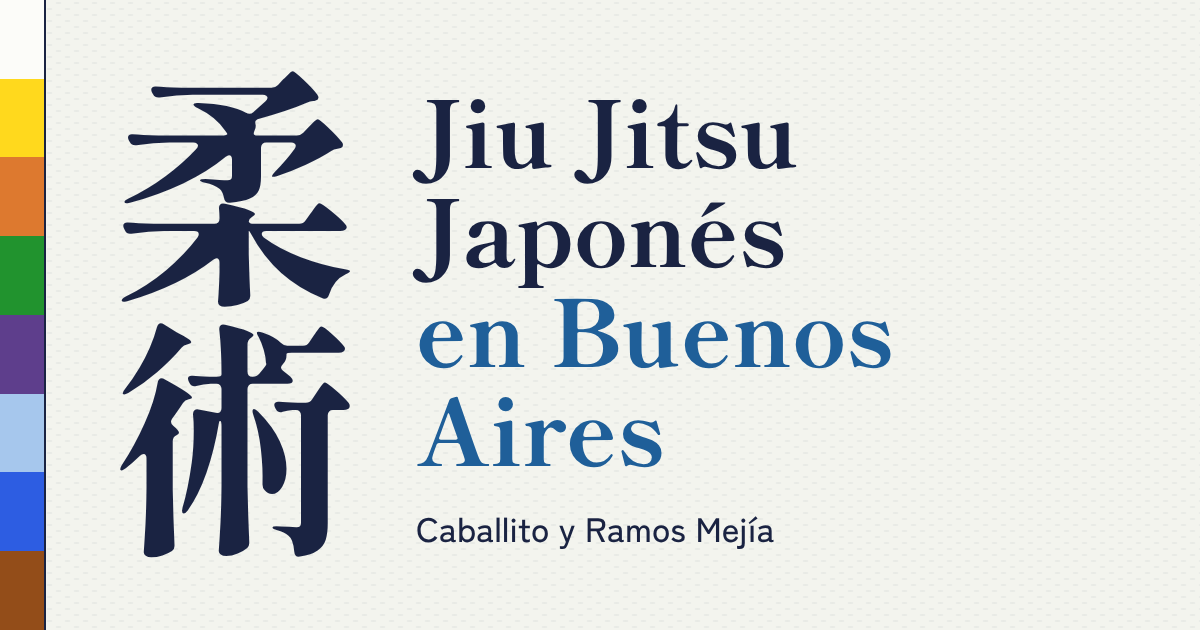
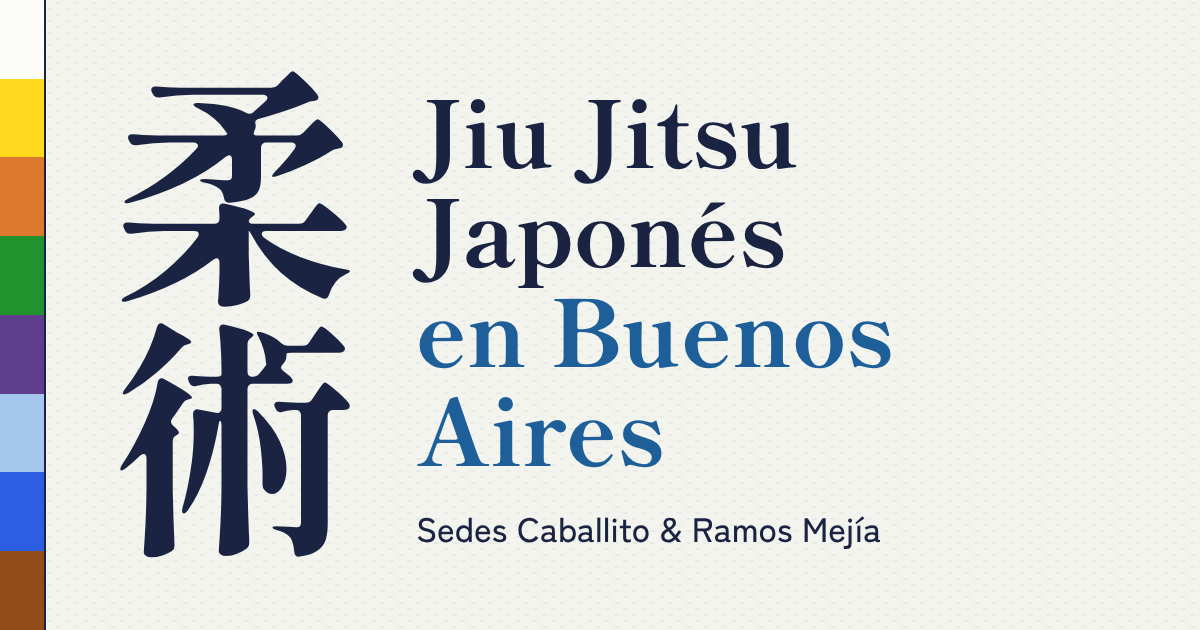
Simplifica la sección de grados y ajusta horarios y miniatura
- Se quita el cinturón lateral en todo el sitio.
- Anudado más natural con el mismo timing: la banda se tensa, las puntas caen por su peso y el nudo se ajusta.
- Los horarios pierden el brillo; solo el próximo día de clase respira.
- Nuevo título de la sección de cinturones: el camino lleva años de práctica.
- 2° kyu destaca primeros auxilios y 3° kyu la defensa contra atacantes múltiples.
- Botón de mon más corto y sin aviso de verificación.
- La miniatura para compartir incluye las sedes.

Changed region(s): [[0.3392, 0.8143, 0.74, 0.8746]]

diff --git a/src/css/site.css b/src/css/site.css
@@ -1,5 +1,4 @@
-/* Layout: contenido alineado a la izquierda sobre una grilla de 12 columnas; en la sección de grados, un cinturón (obi)
-   segmentado del blanco al marrón aparece en el borde izquierdo y marca el kyu que se está viendo;
+/* Layout: contenido alineado a la izquierda sobre una grilla de 12 columnas;
    el contenido se alinea a la izquierda sobre una grilla de 12 columnas, con el índigo como tinta y el celeste y el sol como acentos. */
 :root {
   color-scheme: light;
@@ -12,8 +11,7 @@
   --sol: #F6B40E;         /* Sol de Mayo */
   --tatami: #B7BB86;      /* paja igusa */
   --blanco: #FCFCF9;
-  --brillo: rgba(246, 180, 14, .42);  /* halo del Sol de Mayo para los horarios */
-  --brillo-0: rgba(246, 180, 14, .08);
+  --indigo-claro: #2C3866;  /* respiración del próximo día de clase */
 
   --c-blanco: #FCFCF9; --c-amarillo: #FFD91D; --c-naranja: #DD792F; --c-verde: #21932E;
   --c-violeta: #5E3E8C; --c-celeste: #A6C7ED; --c-azul: #2D5DE2; --c-marron: #934D19;
@@ -27,10 +25,8 @@
   --t-4: 1.125rem;
   --t-chico: .9rem;
 
-  --obi: 10px;
   --ancho: 1180px;
 }
-@media (min-width: 900px) { :root { --obi: 22px; } }
 
 *, *::before, *::after { box-sizing: border-box; }
 html { scroll-behavior: smooth; scroll-padding-top: 5rem; }
@@ -63,39 +59,6 @@ p { margin: 0; }
   padding-right: max(16px, env(safe-area-inset-right, 0px));
 }
 @media (min-width: 700px) { .caja { padding-left: max(40px, env(safe-area-inset-left, 0px)); padding-right: max(40px, env(safe-area-inset-right, 0px)); } }
-
-/* ---------- El obi: solo en la sección de grados ---------- */
-.obi {
-  position: fixed; left: 0; top: 0; bottom: 0; width: var(--obi); z-index: 30;
-  display: flex; flex-direction: column;
-  border-right: 1px solid var(--indigo);
-  transition: transform .35s ease, visibility .35s;
-}
-.js .obi:not(.visible) { transform: translateX(-110%); visibility: hidden; }
-.obi a {
-  flex: 1; display: block; position: relative;
-  background-color: var(--seg);
-  background-image: repeating-linear-gradient(90deg, transparent 0 3px, rgba(26,35,66,.22) 3px 4px);
-  border-bottom: 1px solid rgba(26,35,66,.35);
-  transition: width .25s ease, box-shadow .25s ease;
-  width: 100%;
-}
-.obi a:last-child { border-bottom: 0; }
-.obi a:hover { width: calc(100% + 3px); }
-.obi a.activa { width: calc(100% + 5px); box-shadow: inset 0 0 0 2px var(--indigo), 3px 0 0 var(--indigo); z-index: 1; }
-.obi a:focus-visible { outline-offset: -3px; }
-.obi-grado { display: none; }
-@media (min-width: 900px) {
-  .obi a:hover { width: calc(100% + 6px); }
-  .obi a.activa { width: calc(100% + 12px); }
-  .obi-grado {
-    display: block; position: fixed; left: calc(var(--obi) + 20px); bottom: 14px; z-index: 30;
-    writing-mode: vertical-rl; transform: rotate(180deg);
-    font-size: .78rem; font-weight: 700; color: var(--indigo-medio); letter-spacing: .04em;
-    font-variant-numeric: tabular-nums; transition: opacity .35s;
-  }
-  .js .obi:not(.visible) + .obi-grado { opacity: 0; }
-}
 
 /* ---------- Cabecera ---------- */
 .cabecera {
@@ -154,19 +117,7 @@ p { margin: 0; }
 }
 
 /* Semana de clases */
-.semana {
-  background: var(--blanco); border: 1px solid var(--indigo); min-width: 0;
-  box-shadow: 10px 10px 0 var(--tatami), 0 0 22px 4px var(--brillo);
-}
-@media (prefers-reduced-motion: no-preference) {
-  .semana { animation: respirar 3.6s ease-in-out infinite; }
-  .semana li.proxima::before { animation: respirar-marca 3.6s ease-in-out infinite; }
-  @keyframes respirar {
-    0%, 100% { box-shadow: 10px 10px 0 var(--tatami), 0 0 6px 0 var(--brillo-0); }
-    50% { box-shadow: 10px 10px 0 var(--tatami), 0 0 30px 7px var(--brillo); }
-  }
-  @keyframes respirar-marca { 0%, 100% { opacity: .55; } 50% { opacity: 1; } }
-}
+.semana { background: var(--blanco); border: 1px solid var(--indigo); box-shadow: 10px 10px 0 var(--tatami); min-width: 0; }
 .semana-cabeza { display: flex; justify-content: space-between; align-items: baseline; gap: 1rem; padding: 1rem 1.2rem; border-bottom: 1px solid var(--indigo); flex-wrap: wrap; }
 .semana-cabeza h2 { font-size: 1.25rem; }
 .semana-cabeza p { font-size: var(--t-chico); color: var(--indigo-medio); }
@@ -182,6 +133,12 @@ p { margin: 0; }
 .semana li.proxima { background: var(--indigo); color: var(--gi); }
 .semana li.proxima .sede { color: var(--celeste); }
 .semana li.proxima::before { content: ""; position: absolute; left: 0; top: 0; bottom: 0; width: 6px; background: var(--sol); }
+@media (prefers-reduced-motion: no-preference) {
+  .semana li.proxima { animation: respirar 3.6s ease-in-out infinite; }
+  .semana li.proxima::before { animation: respirar-marca 3.6s ease-in-out infinite; }
+  @keyframes respirar { 0%, 100% { background-color: var(--indigo); } 50% { background-color: var(--indigo-claro); } }
+  @keyframes respirar-marca { 0%, 100% { opacity: .55; } 50% { opacity: 1; } }
+}
 .semana .aviso { grid-column: 1 / -1; font-size: var(--t-chico); font-weight: 700; color: var(--sol); margin-bottom: .15rem; }
 
 /* ---------- Secciones ---------- */
@@ -422,15 +379,38 @@ picture { display: block; }
 /* ---------- Cinturón anudado ---------- */
 .nudo { width: 100%; height: auto; overflow: visible; }
 .nudo path { fill: var(--cinta, var(--c-blanco)); stroke: var(--indigo); stroke-width: 4; stroke-linejoin: round; transform-box: fill-box; transform-origin: center; }
+/* Anudado, con el timing original (banda 0-0,7 s; caídas 0,55 y 0,7 s; ajuste 1,05-1,45 s):
+   la banda se tensa desde el nudo hacia los extremos, las puntas caen por su peso desde el punto
+   donde salen del nudo y se asientan con un vaivén corto, y el nudo se ajusta apretando la tela. */
+.nudo { filter: drop-shadow(0 2px 0 rgba(26, 35, 66, .16)); }
 @media (prefers-reduced-motion: no-preference) {
-  .anudar .nudo path:nth-child(2) { animation: cenir .7s cubic-bezier(.6, 0, .2, 1) both; }
-  .anudar .nudo path:nth-child(5) { animation: caer .45s ease-out .55s both; transform-origin: 100% 0; }
-  .anudar .nudo path:nth-child(7) { animation: caer .45s ease-out .7s both; transform-origin: 0 0; }
+  .anudar .nudo path:nth-child(2) { animation: tensar .7s cubic-bezier(.6, 0, .2, 1) both; transform-origin: 50% 50%; }
+  .anudar .nudo path:nth-child(5) { animation: caer-izq .45s .55s both; transform-origin: 100% 0; }
+  .anudar .nudo path:nth-child(7) { animation: caer-der .45s .7s both; transform-origin: 0 0; }
   .anudar .nudo path:nth-child(1), .anudar .nudo path:nth-child(3), .anudar .nudo path:nth-child(4),
-  .anudar .nudo path:nth-child(6), .anudar .nudo path:nth-child(8) { animation: apretar .4s cubic-bezier(.3, 1.6, .5, 1) 1.05s both; }
-  @keyframes cenir { from { clip-path: inset(0 100% 0 0); } to { clip-path: inset(-10px); } }
-  @keyframes caer { from { opacity: 0; transform: scale(.2); } to { opacity: 1; transform: scale(1); } }
-  @keyframes apretar { from { opacity: 0; transform: scale(1.5); } to { opacity: 1; transform: scale(1); } }
+  .anudar .nudo path:nth-child(6), .anudar .nudo path:nth-child(8) { animation: ajustar .4s cubic-bezier(.25, .7, .3, 1) 1.05s both; }
+  @keyframes tensar {
+    from { clip-path: inset(0 48% 0 48%); transform: scaleY(1.08); }
+    to { clip-path: inset(-10px); transform: scaleY(1); }
+  }
+  @keyframes caer-izq {
+    0% { clip-path: inset(0 0 0 100%); transform: rotate(22deg); animation-timing-function: cubic-bezier(.5, 0, .9, .5); }
+    55% { clip-path: inset(-10px); transform: rotate(-4deg); animation-timing-function: cubic-bezier(.2, .5, .4, 1); }
+    80% { transform: rotate(1.5deg); }
+    100% { clip-path: inset(-10px); transform: rotate(0); }
+  }
+  @keyframes caer-der {
+    0% { clip-path: inset(0 100% 0 0); transform: rotate(-22deg); animation-timing-function: cubic-bezier(.5, 0, .9, .5); }
+    55% { clip-path: inset(-10px); transform: rotate(4deg); animation-timing-function: cubic-bezier(.2, .5, .4, 1); }
+    80% { transform: rotate(-1.5deg); }
+    100% { clip-path: inset(-10px); transform: rotate(0); }
+  }
+  @keyframes ajustar {
+    0% { opacity: 0; transform: scale(1.1, .9); }
+    35% { opacity: 1; }
+    70% { transform: scale(.97, 1.03); }
+    100% { opacity: 1; transform: scale(1); }
+  }
 }
 
 /* ---------- Carrusel de cinturones (portada) ---------- */
@@ -507,9 +487,6 @@ picture { display: block; }
 .tiras i { display: block; width: 9px; background: var(--mon); border: 1px solid var(--indigo); }
 
 .color-mon { display: inline-block; width: .9em; height: .9em; vertical-align: -.1em; border: 1px solid var(--indigo); background: var(--mon); margin-right: .2em; }
-.pendiente { margin-top: 1rem; border: 1px dashed var(--indigo-medio); padding: .7rem .8rem; color: var(--indigo-medio); }
-.pendiente strong { display: block; color: var(--indigo); margin-bottom: .25rem; }
-.pendiente ul { margin: 0; padding-left: 1.1rem; }
 @media (min-width: 1000px) {
   .articulo.grados-pagina .caja { grid-template-columns: 11rem minmax(0, 1fr); }
 }

diff --git a/src/js/site.js b/src/js/site.js
@@ -70,38 +70,12 @@
 
   var sinMovimiento = window.matchMedia && window.matchMedia('(prefers-reduced-motion: reduce)').matches;
 
-  /* ---------- Obi: aparece solo en la sección de grados y marca el kyu activo ---------- */
-  var obi = document.querySelector('.obi');
-  var obiRotulo = document.querySelector('.obi-grado');
-  var obiEnlaces = obi ? Array.prototype.slice.call(obi.querySelectorAll('a[data-kyu]')) : [];
-  function marcarObi(kyu) {
-    obiEnlaces.forEach(function (a) {
-      var activo = a.dataset.kyu === String(kyu);
-      a.classList.toggle('activa', activo);
-      if (activo) {
-        a.setAttribute('aria-current', 'true');
-        if (obiRotulo) obiRotulo.textContent = a.getAttribute('aria-label');
-      } else {
-        a.removeAttribute('aria-current');
-      }
-    });
-  }
-  function vigilarZona(zona) {
-    if (!obi || !zona) return;
-    if (!('IntersectionObserver' in window)) { obi.classList.add('visible'); return; }
-    new IntersectionObserver(function (e) {
-      obi.classList.toggle('visible', e[0].isIntersecting);
-    }, { rootMargin: '-15% 0px -15% 0px' }).observe(zona);
-  }
-
-  /* ---------- Página de grados: obi e índice sincronizados con el kyu en pantalla ---------- */
+  /* ---------- Página de grados: el índice marca el kyu en pantalla ---------- */
   var listaKyus = document.querySelector('[data-kyus]');
   if (listaKyus) {
-    vigilarZona(listaKyus);
     var kyus = Array.prototype.slice.call(listaKyus.querySelectorAll('.grado[data-kyu]'));
     var indiceKyu = Array.prototype.slice.call(document.querySelectorAll('.indice a[href^="#kyu-"]'));
     var marcarKyu = function (kyu) {
-      marcarObi(kyu);
       indiceKyu.forEach(function (a) { a.classList.toggle('activa', a.getAttribute('href') === '#kyu-' + kyu); });
     };
     marcarKyu(kyus[0].dataset.kyu);
@@ -115,8 +89,8 @@
       }, { rootMargin: '-35% 0px -60% 0px' });
       kyus.forEach(function (k) { vigia.observe(k); });
     }
-    // Al tocar un tramo del obi o del índice, marcarlo enseguida (el scroll lo confirma)
-    obiEnlaces.concat(indiceKyu).forEach(function (a) {
+    // Al tocar un kyu del índice, marcarlo enseguida (el scroll lo confirma)
+    indiceKyu.forEach(function (a) {
       a.addEventListener('click', function () { marcarKyu(a.getAttribute('href').replace(/.*#kyu-/, '')); });
     });
   }
@@ -153,7 +127,6 @@
       siguiente.disabled = i === diapos.length - 1;
       var d = diapos[i];
       d.classList.remove('anudar'); void d.offsetWidth; d.classList.add('anudar');
-      marcarObi(d.dataset.kyu);
     };
     var ir = function (i) {
       i = Math.max(0, Math.min(diapos.length - 1, i));
@@ -178,17 +151,7 @@
       else if (e.key === 'Home') { e.preventDefault(); ir(0); }
       else if (e.key === 'End') { e.preventDefault(); ir(diapos.length - 1); }
     });
-    // El obi de la portada maneja el carrusel en vez de cambiar de página
-    obiEnlaces.forEach(function (a) {
-      a.addEventListener('click', function (e) {
-        var j = diapos.findIndex(function (d) { return d.dataset.kyu === a.dataset.kyu; });
-        if (j < 0) return;
-        e.preventDefault();
-        ir(j);
-      });
-    });
     mostrar(0);
-    vigilarZona(carrusel.closest('[data-zona-obi]'));
   }
 
   /* ---------- Formulario de contacto ---------- */

diff --git a/src/pages/inicio.html b/src/pages/inicio.html
@@ -102,10 +102,10 @@
   </div>
 </section>
 
-<section class="seccion" id="grados" data-zona-obi>
+<section class="seccion" id="grados">
   <div class="caja">
-    <h2 class="seccion-titulo">De blanco a marrón en ocho exámenes</h2>
-    <p class="seccion-intro">Empezás en 8° kyu. Para pasar de un grado al próximo se necesita completar un examen. Al llegar a 1° kyu se puede enseñar Shorinji Kan Jiu Jitsu.</p>
+    <h2 class="seccion-titulo">Cada cinturón se gana en el tatami, clase a clase</h2>
+    <p class="seccion-intro">Empezás en 8° kyu, con cinturón blanco. Cada examen se prepara con práctica constante, y el camino hasta el marrón lleva años. Al llegar a 1° kyu se puede enseñar Shorinji Kan Jiu Jitsu.</p>
 <!--CARRUSEL-->
   </div>
 </section>

diff --git a/README.md b/README.md
@@ -8,7 +8,7 @@ Sitio web de la Fundación Jiu Jitsu Argentina, el grupo de Shorinji Kan Jiu Jit
 
 - **Sedes y horarios:** dojos de Caballito y Ramos Mejía, con sensei, dirección, días de clase y la próxima clase según la hora de Buenos Aires.
 - **Cinturones:** carrusel del blanco al marrón en la portada, con flechas, deslizamiento y teclado.
-- **Grados:** los ocho grados kyu con los requisitos de cada examen y las defensas que se incorporan, un cinturón lateral sincronizado con el kyu en pantalla y la explicación de los mons de 7° y 6° kyu.
+- **Grados:** los ocho grados kyu con los requisitos de cada examen, los conocimientos y defensas que se incorporan, y la explicación de los mon de 7° y 6° kyu.
 - **La Fundación, Historia y Filosofía:** el origen del estilo, el linaje de Tokio a Buenos Aires, On y Giri, y un glosario de términos del dojo.
 - **Preguntas frecuentes y contacto:** formulario, WhatsApp y redes de cada sede, y las clases en formato de calendario.
 
